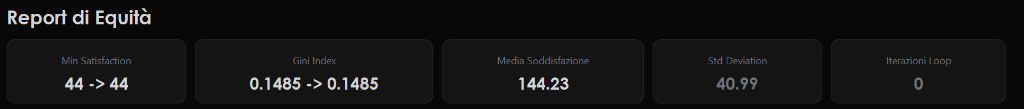
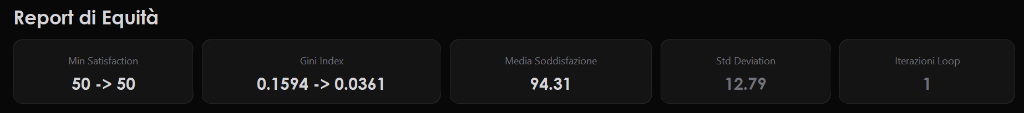
Refactor: nuovo criterio di accettazione e miglioramento fairness nel refinement loop

diff --git a/Stages/refinement_loop.py b/Stages/refinement_loop.py
@@ -93,88 +93,21 @@ class ScheduleRefinementAgent:
         night_idx = SHIFT_MAP["night"]
         cfg       = self.config
 
-        # Calcolo dinamico dei gap per il refinement (se non passati esplicitamente)
-        dyn_gaps = self.horizon.compute_fairness_gaps(self.num_workers, is_refinement=True)
-        act_night_gap   = max_night_gap if max_night_gap is not None else dyn_gaps["night_gap"]
-        act_holiday_gap = max_holiday_gap if max_holiday_gap is not None else dyn_gaps["holiday_gap"]
-        act_weekend_gap = max_weekend_gap if max_weekend_gap is not None else dyn_gaps["weekend_gap"]
-
-        # NON PEGGIORAMENTO: nessun lavoratore può scendere sotto la soglia minima
-        # Il miglioramento della soddisfazione del worker più svantaggiato non deve abbassare
-        # la soglia minima di soddisfazione già esistente
+        # NON PEGGIORAMENTO RIGIDO:
+        # Il miglioramento del lavoratore più svantaggiato NON deve peggiorare la soddisfazione minima
+        # raggiunta (principio Max-Min).
         for sat_var in worker_satisfactions:
             model.add(sat_var >= locked_min_satisfaction)
 
-        # 1. Bilanciamento equo dei turni di notte
-        night_counts = []
-        for w in range(self.num_workers):
-            n_nights = model.new_int_var(0, num_days, f"nights_w{w}")
-            model.add(n_nights == sum(shifts[(w, d, night_idx)] for d in range(num_days)))
-            night_counts.append(n_nights)
-
-        max_nights = model.new_int_var(0, num_days, "max_nights")
-        min_nights = model.new_int_var(0, num_days, "min_nights")
-        model.add_max_equality(max_nights, night_counts)
-        model.add_min_equality(min_nights, night_counts)
-        model.add(max_nights - min_nights <= act_night_gap)
-
-        # 2. Bilanciamento equo delle festività nazionali
-        if self.horizon.holiday_indices and act_holiday_gap > 0:
-            holiday_counts = []
-            for w in range(self.num_workers):
-                h_shifts = model.new_int_var(
-                    0, len(self.horizon.holiday_indices) * cfg.num_shifts, f"holidays_w{w}"
-                )
-                model.add(h_shifts == sum(
-                    shifts[(w, d, s)]
-                    for d in self.horizon.holiday_indices
-                    for s in range(cfg.num_shifts)
-                ))
-                holiday_counts.append(h_shifts)
-
-            max_holidays = model.new_int_var(
-                0, len(self.horizon.holiday_indices) * cfg.num_shifts, "max_holidays"
-            )
-            min_holidays = model.new_int_var(
-                0, len(self.horizon.holiday_indices) * cfg.num_shifts, "min_holidays"
-            )
-            model.add_max_equality(max_holidays, holiday_counts)
-            model.add_min_equality(min_holidays, holiday_counts)
-            model.add(max_holidays - min_holidays <= act_holiday_gap)
-
-        # 3. Bilanciamento equo dei weekend
-        if self.horizon.weekend_indices and act_weekend_gap > 0:
-            weekend_counts = []
-            for w in range(self.num_workers):
-                w_shifts = model.new_int_var(
-                    0, len(self.horizon.weekend_indices) * cfg.num_shifts, f"weekends_w{w}"
-                )
-                model.add(w_shifts == sum(
-                    shifts[(w, d, s)]
-                    for d in self.horizon.weekend_indices
-                    for s in range(cfg.num_shifts)
-                ))
-                weekend_counts.append(w_shifts)
-
-            max_weekends = model.new_int_var(
-                0, len(self.horizon.weekend_indices) * cfg.num_shifts, "max_weekends"
-            )
-            min_weekends = model.new_int_var(
-                0, len(self.horizon.weekend_indices) * cfg.num_shifts, "min_weekends"
-            )
-            model.add_max_equality(max_weekends, weekend_counts)
-            model.add_min_equality(min_weekends, weekend_counts)
-            model.add(max_weekends - min_weekends <= act_weekend_gap)
-
         # Riduzione della disparita' di soddisfazione
-        max_sat = model.new_int_var(-10000, 10000, "max_sat")
-        min_sat = model.new_int_var(-10000, 10000, "min_sat")
+        max_sat = model.new_int_var(-10000, 10000, "max_sat") # massimo valore di soddisfazione
+        min_sat = model.new_int_var(-10000, 10000, "min_sat") # minimo valore di soddisfazione
         model.add_max_equality(max_sat, worker_satisfactions)
         model.add_min_equality(min_sat, worker_satisfactions)
 
         total_sat = sum(worker_satisfactions)
 
-        # Nuova funzione obiettivo definita su 4 priorità:
+        # Funzione obiettivo definita su 4 priorità:
         # 1. Massimizza la soddisfazione del lavoratore svantaggiato e scarica i suoi turni sgraditi ad altri
         # 2. Mantiene alto il punteggio minimo generale (non deve crearsi un lavoratore più disperato)
         # 3. Riduzione del divario tra lavoratore più soddisfatto e meno soddisfatto
@@ -314,29 +247,43 @@ class ScheduleRefinementAgent:
             curr_disadvantaged_count = sum(1 for r in ratios if r <= curr_min_ratio + 1e-4)
             ref_disadvantaged_count  = sum(1 for r in refined_ratios if r <= curr_min_ratio + 1e-4)
 
-            # Condizione necessaria: la soddisfazione minima globale non deve peggiorare
-            min_not_worsened = (ref_min_score >= curr_min_score) and (ref_min_ratio >= curr_min_ratio - 1e-4)
+            # CRITERIO DI ACCETTAZIONE DI UN RAFFINAMENTO
+            # Condizione necessaria 1: la soddisfazione minima non deve peggiorare
+            min_not_worsened = (ref_min_score >= curr_min_score)
 
-            # Criteri di progresso reale della fairness complessiva:
-            # 1. Max-Min: innalzamento effettivo della soglia minima globale
+            # Condizione necessaria 2: la disuguaglianza globale (Gini) non deve aumentare
+            gini_not_worsened = (ref_gini <= curr_gini + 0.0005)
+
+            # Criteri di progresso reale della fairness: deve verificarsi almeno uno
+            # 1. Innalzamento del pavimento minimo
             floor_improved = (ref_min_score > curr_min_score) or (ref_min_ratio > curr_min_ratio + 1e-4)
 
-            # 2. Leximin: riduzione della platea dei lavoratori svantaggiati (senza che altri scendano al minimo)
+            # 2. La distribuzione dei turni è diventata più equa (Gini è calato)
+            gini_improved = (ref_gini < curr_gini - 0.001)
+
+            # 3. Miglioramento mirato del target worker SENZA peggiorare la disuguaglianza globale
+            target_improved = (
+                (refined_scores[target_idx] > current_scores[target_idx] or
+                 refined_ratios[target_idx] > ratios[target_idx] + 1e-4)
+                and gini_not_worsened
+            )
+
+            # 4. Leximin: riduzione della platea dei lavoratori fermi al livello minimo. 
+            # Il principio leximin vuole che se il valore minimo non può alzarsi numericamente, si cerca
+            # almeno di diminuire il numero di persone intrappolate a quel livello minimo
             disadvantaged_reduced = (
                 ref_disadvantaged_count < curr_disadvantaged_count and
                 refined_ratios[target_idx] > ratios[target_idx]
             )
 
-            # 3. Indice di Gini: diminuzione misurabile della disuguaglianza complessiva dell'organico
-            gini_improved = (ref_gini < curr_gini - 0.001)
+            # 5. Riduzione del divario tra chi sta meglio e chi sta peggio
+            gap_improved = (ref_gap < curr_gap) and gini_not_worsened
 
-            # 4. Divario Max-Min: compressione della forbice complessiva a parità o aumento del totale
-            gap_improved = (ref_gap < curr_gap) and (sum(refined_scores) >= sum(current_scores))
-
-            improved = min_not_worsened and (
+            improved = min_not_worsened and gini_not_worsened and (
                 floor_improved or
-                disadvantaged_reduced or
                 gini_improved or
+                target_improved or
+                disadvantaged_reduced or
                 gap_improved
             )
 

diff --git a/Stages/drafting_agent.py b/Stages/drafting_agent.py
@@ -114,72 +114,61 @@ class ScheduleDraftingAgent:
                                 shifts[(w, d + offset, next_s)] == 0
                             ).only_enforce_if(shifts[(w, d, night_idx)])
 
-        # Calcolo dinamico dei gap ottimali in base a orizzonte e numero di lavoratori
-        dyn_gaps = self.horizon.compute_fairness_gaps(self.num_workers, is_refinement=False)
-        dyn_night_gap   = dyn_gaps["night_gap"]
-        dyn_holiday_gap = dyn_gaps["holiday_gap"]
-        dyn_weekend_gap = dyn_gaps["weekend_gap"]
-
-        # D. Equità turni di notte (gap calcolato dinamicamente tra worker)
-        night_counts = []
-        for w in range(self.num_workers):
-            n_nights = model.new_int_var(0, num_days, f"nights_w{w}")
-            model.add(n_nights == sum(shifts[(w, d, night_idx)] for d in range(num_days)))
-            night_counts.append(n_nights)
-
-        max_nights = model.new_int_var(0, num_days, "max_nights")
-        min_nights = model.new_int_var(0, num_days, "min_nights")
-        model.add_max_equality(max_nights, night_counts)
-        model.add_min_equality(min_nights, night_counts)
-        model.add(max_nights - min_nights <= dyn_night_gap)
-
-        # E. Equità carico festivo (gap calcolato dinamicamente tra worker)
-        if self.horizon.holiday_indices and dyn_holiday_gap > 0:
-            holiday_counts = []
-            for w in range(self.num_workers):
-                h_shifts = model.new_int_var(
-                    0, len(self.horizon.holiday_indices) * self.num_shifts, f"holidays_w{w}"
-                )
-                model.add(h_shifts == sum(
-                    shifts[(w, d, s)]
-                    for d in self.horizon.holiday_indices
-                    for s in range(self.num_shifts)
-                ))
-                holiday_counts.append(h_shifts)
-
-            max_holidays = model.new_int_var(
-                0, len(self.horizon.holiday_indices) * self.num_shifts, "max_holidays"
-            )
-            min_holidays = model.new_int_var(
-                0, len(self.horizon.holiday_indices) * self.num_shifts, "min_holidays"
-            )
-            model.add_max_equality(max_holidays, holiday_counts)
-            model.add_min_equality(min_holidays, holiday_counts)
-            model.add(max_holidays - min_holidays <= dyn_holiday_gap)
-
-        # F. Equità carico weekend (gap calcolato dinamicamente tra worker)
-        if self.horizon.weekend_indices and dyn_weekend_gap > 0:
-            weekend_counts = []
-            for w in range(self.num_workers):
-                w_shifts = model.new_int_var(
-                    0, len(self.horizon.weekend_indices) * self.num_shifts, f"weekends_w{w}"
-                )
-                model.add(w_shifts == sum(
-                    shifts[(w, d, s)]
-                    for d in self.horizon.weekend_indices
-                    for s in range(self.num_shifts)
-                ))
-                weekend_counts.append(w_shifts)
-
-            max_weekends = model.new_int_var(
-                0, len(self.horizon.weekend_indices) * self.num_shifts, "max_weekends"
-            )
-            min_weekends = model.new_int_var(
-                0, len(self.horizon.weekend_indices) * self.num_shifts, "min_weekends"
-            )
-            model.add_max_equality(max_weekends, weekend_counts)
-            model.add_min_equality(min_weekends, weekend_counts)
-            model.add(max_weekends - min_weekends <= dyn_weekend_gap)
+    
+        # dyn_gaps = self.horizon.compute_fairness_gaps(self.num_workers, is_refinement=False)
+        # dyn_night_gap   = dyn_gaps["night_gap"]
+        # dyn_holiday_gap = dyn_gaps["holiday_gap"]
+        # dyn_weekend_gap = dyn_gaps["weekend_gap"]
+        #
+        # # D. Equità turni di notte
+        # night_counts = []
+        # for w in range(self.num_workers):
+        #     n_nights = model.new_int_var(0, num_days, f"nights_w{w}")
+        #     model.add(n_nights == sum(shifts[(w, d, night_idx)] for d in range(num_days)))
+        #     night_counts.append(n_nights)
+        # max_nights = model.new_int_var(0, num_days, "max_nights")
+        # min_nights = model.new_int_var(0, num_days, "min_nights")
+        # model.add_max_equality(max_nights, night_counts)
+        # model.add_min_equality(min_nights, night_counts)
+        # model.add(max_nights - min_nights <= dyn_night_gap)
+        #
+        # # E. Equità carico festivo
+        # if self.horizon.holiday_indices and dyn_holiday_gap > 0:
+        #     holiday_counts = []
+        #     for w in range(self.num_workers):
+        #         h_shifts = model.new_int_var(
+        #             0, len(self.horizon.holiday_indices) * self.num_shifts, f"holidays_w{w}"
+        #         )
+        #         model.add(h_shifts == sum(
+        #             shifts[(w, d, s)]
+        #             for d in self.horizon.holiday_indices
+        #             for s in range(self.num_shifts)
+        #         ))
+        #         holiday_counts.append(h_shifts)
+        #     max_holidays = model.new_int_var(0, len(self.horizon.holiday_indices) * self.num_shifts, "max_holidays")
+        #     min_holidays = model.new_int_var(0, len(self.horizon.holiday_indices) * self.num_shifts, "min_holidays")
+        #     model.add_max_equality(max_holidays, holiday_counts)
+        #     model.add_min_equality(min_holidays, holiday_counts)
+        #     model.add(max_holidays - min_holidays <= dyn_holiday_gap)
+        #
+        # # F. Equità carico weekend
+        # if self.horizon.weekend_indices and dyn_weekend_gap > 0:
+        #     weekend_counts = []
+        #     for w in range(self.num_workers):
+        #         w_shifts = model.new_int_var(
+        #             0, len(self.horizon.weekend_indices) * self.num_shifts, f"weekends_w{w}"
+        #         )
+        #         model.add(w_shifts == sum(
+        #             shifts[(w, d, s)]
+        #             for d in self.horizon.weekend_indices
+        #             for s in range(self.num_shifts)
+        #         ))
+        #         weekend_counts.append(w_shifts)
+        #     max_weekends = model.new_int_var(0, len(self.horizon.weekend_indices) * self.num_shifts, "max_weekends")
+        #     min_weekends = model.new_int_var(0, len(self.horizon.weekend_indices) * self.num_shifts, "min_weekends")
+        #     model.add_max_equality(max_weekends, weekend_counts)
+        #     model.add_min_equality(min_weekends, weekend_counts)
+        #     model.add(max_weekends - min_weekends <= dyn_weekend_gap)
 
         # G. Monte turni mensile esatto (da config: exact_monthly_equivalent_shifts)
         for w in range(self.num_workers):
@@ -235,8 +224,8 @@ class ScheduleDraftingAgent:
 
         total_satisfaction = sum(worker_satisfactions)
 
-        # Priorità primaria: massimizza la soddisfazione del lavoratore meno soddisfatto (Min-Max Fairness).
-        # Priorità secondaria: massimizza la soddisfazione totale.
+        # Obiettivo combinato: priorità assoluta alla massimizzazione del minimo (Max-Min fairness, peso 1000),
+        # e solo poi massimizzazione della soddisfazione totale.
         model.maximize(min_satisfaction * 1000 + total_satisfaction)
 
         return model, shifts, worker_satisfactions, min_satisfaction
